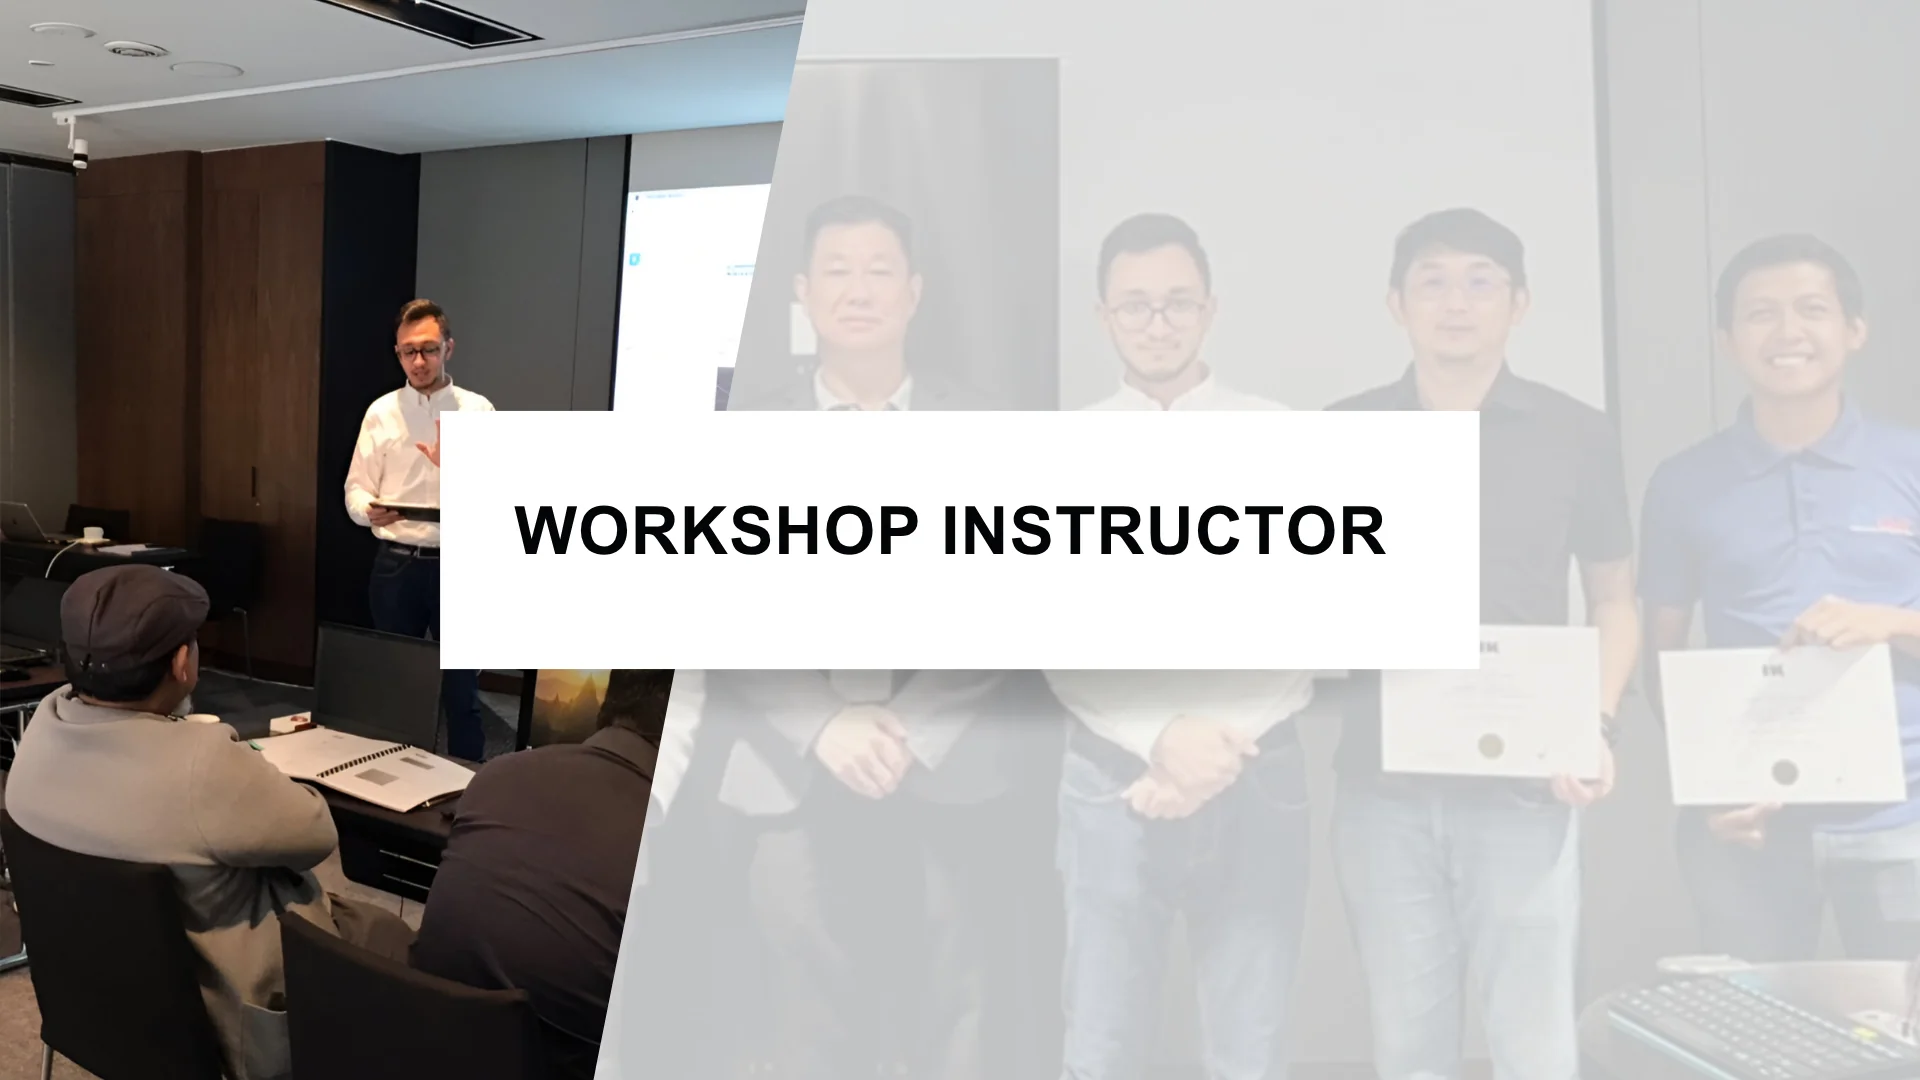
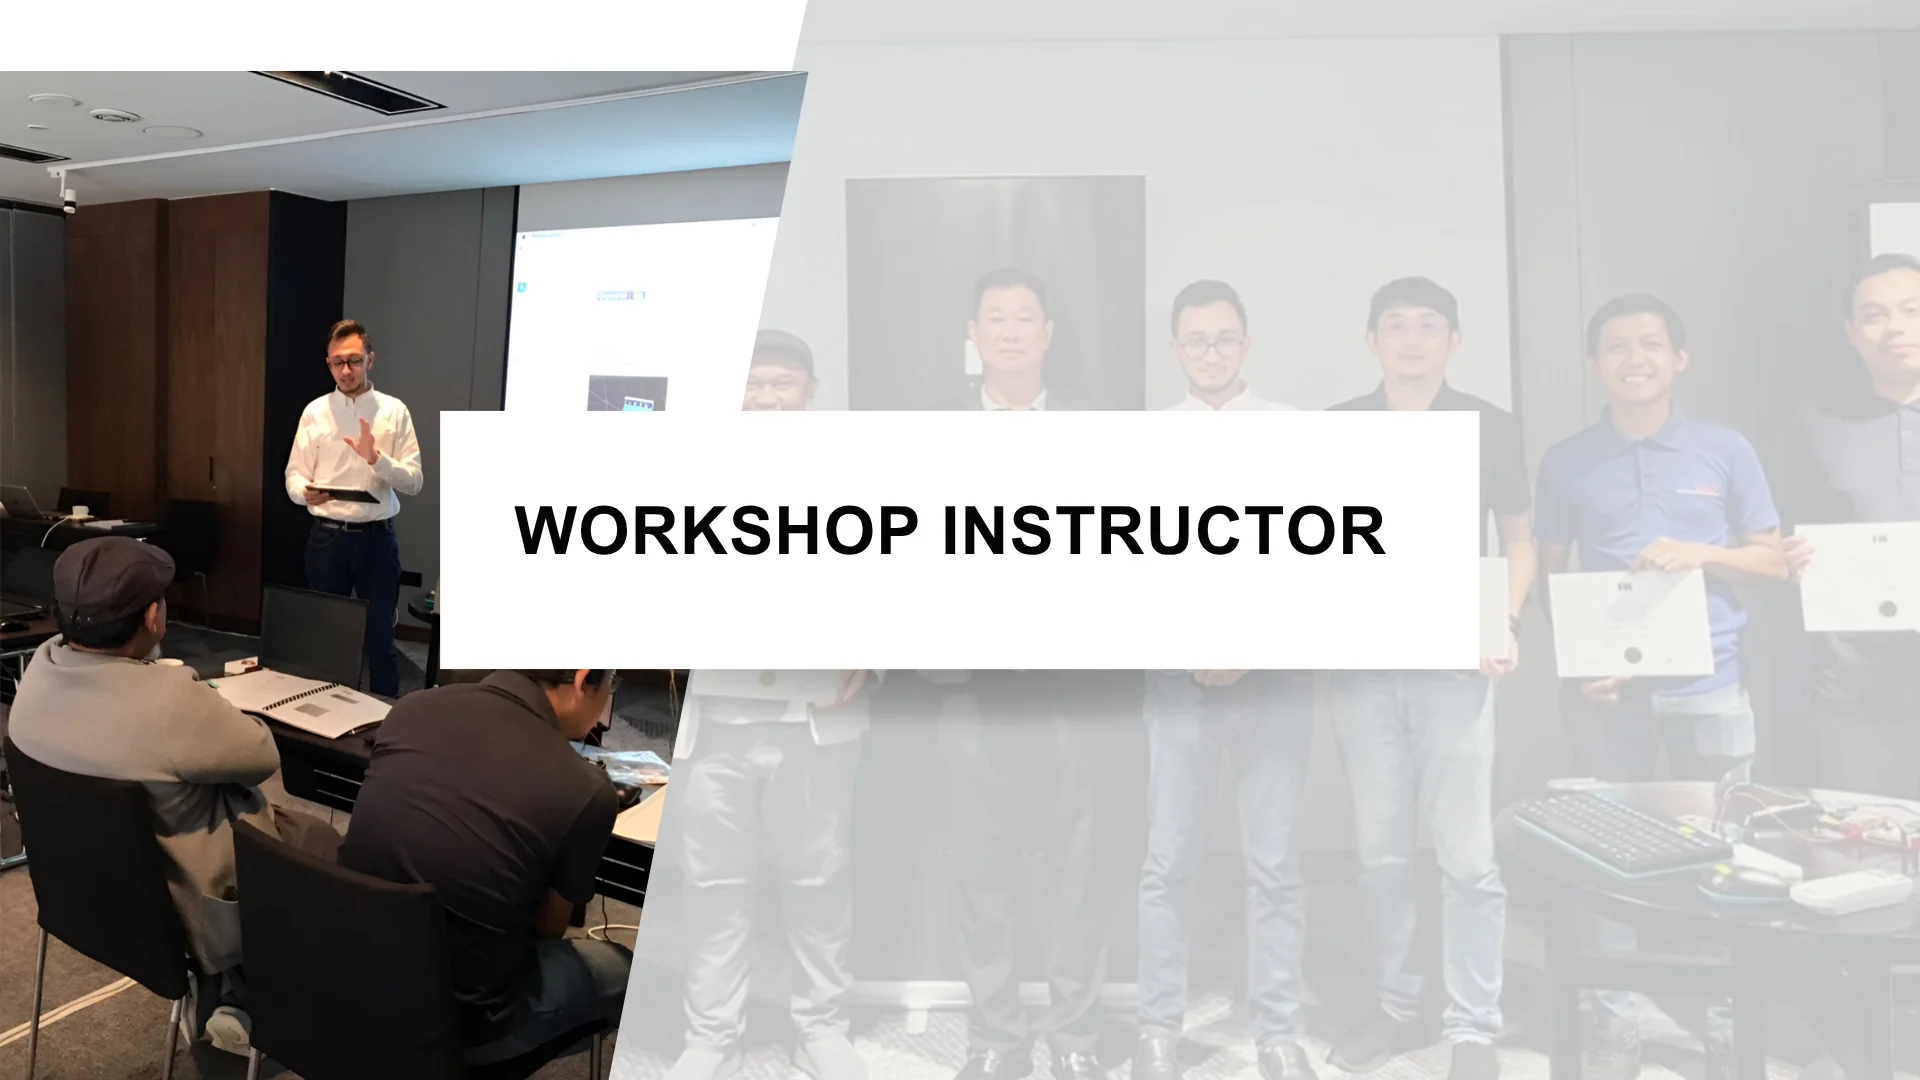
Add files via upload

diff --git a/index.html b/index.html
@@ -2352,6 +2352,13 @@
      const target = document.getElementById(sectionName);
      if (target) {
          target.classList.add('active');
+         target.querySelectorAll('.fade-in, .fade-in-delayed, .fade-in-slow').forEach(el => {
+             el.removeAttribute('data-animated');
+             el.style.animation = 'none';
+             el.offsetHeight;
+             el.style.animation = '';
+             el.style.animationPlayState = 'running';
+         });
      }
 
      if (sectionName === 'skills') {